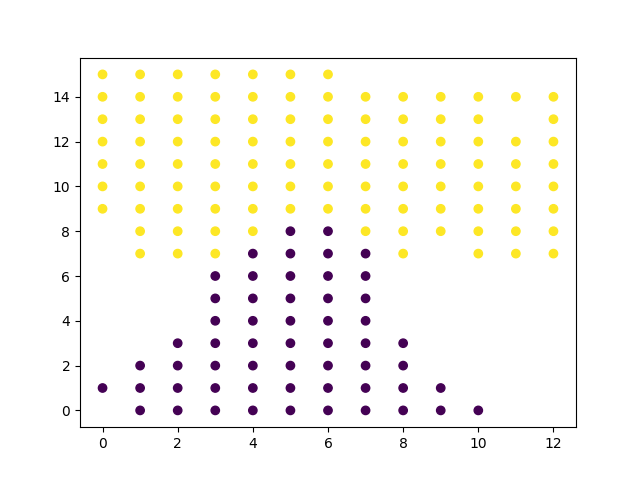
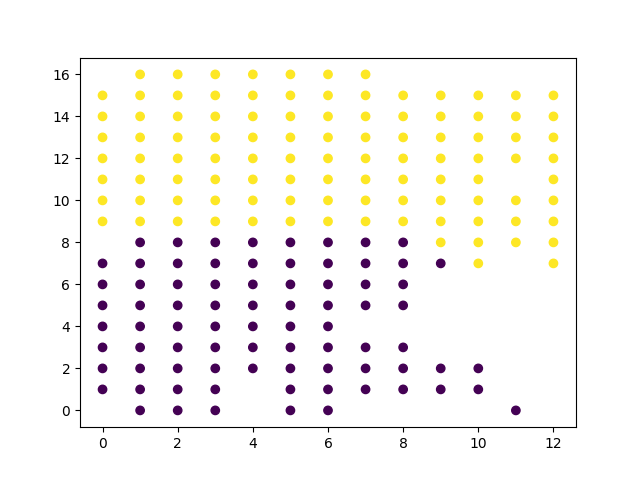
Predicted values flipped (lr & ud), resolving issue of error increasing with num. samples

diff --git a/mesa_spatial_sampling_MRS/model.py b/mesa_spatial_sampling_MRS/model.py
@@ -6,6 +6,7 @@ import random
 import re
 import copy
 import pickle
+import math
 
 import pandas as pd
 from mesa import Model, Agent
@@ -15,7 +16,7 @@ from mesa.datacollection import DataCollector
 import numpy as np
 import matplotlib.pyplot as plt
 from astar_python import Astar
-from gaussian import makeGaussian
+# from gaussian import makeGaussian
 from kriging_utils.kriging import predict_by_kriging
 from scipy.cluster.hierarchy import fclusterdata
 
@@ -161,7 +162,12 @@ class Robot(Agent):
                     # Run prediction
                     m, v = predict_by_kriging(xgrid, ygrid, x_arr, y_arr, o_arr, variogram=variogram)
 
-                    self.model.RMSE = np.mean(np.power(np.array(self.model.gaussian) - m, 2))
+                    m = np.flipud(m)
+                    m = np.fliplr(m)
+                    #
+                    # v = np.flipud(v)
+                    # v = np.fliplr(v)
+                    self.model.RMSE = np.sqrt(np.mean(np.power(np.array(self.model.gaussian) - m, 2)))
                     self.model.avg_variance = np.mean(v)
                     # print("RMSE:", self.model.RMSE)
 
@@ -189,12 +195,20 @@ class Robot(Agent):
                         unsampled_cells = np.where(np.array(self.model.sampled) == -1)
                         unsampled_cells = np.array(list(zip(unsampled_cells[1], unsampled_cells[0])))
 
+                        # unsampled_clusters = fclusterdata(unsampled_cells,
+                        #                                   t=self.model.width / (len(self.model.robots) / 3),
+                        #                                   criterion='distance',
+                        #                                   metric='euclidean',
+                        #                                   depth=1,
+                        #                                   method='complete')
+
                         unsampled_clusters = fclusterdata(unsampled_cells,
-                                                          t=self.model.width / (len(self.model.robots) / 3),
+                                                          t=math.sqrt(self.model.width*self.model.height),
                                                           criterion='distance',
                                                           metric='euclidean',
                                                           depth=1,
                                                           method='complete')
+
                         # print(unsampled_clusters)
                         plt.scatter(unsampled_cells[:, 0], unsampled_cells[:, 1], c=unsampled_clusters)
                         plt.savefig(self.model.visualisation_dir+"unsampled_cell_clusters.png")
@@ -213,6 +227,8 @@ class Robot(Agent):
                         # where x is the number of robots
                         self.model.candidate_goals = []
                         # cluster_max_vs = []
+                        print("Number of clusters:", len(v_clustered))
+
                         for cluster in v_clustered:
                             cluster_max_v_cell_str = max(cluster, key=cluster.get)
                             cluster_max_v_cell_str = [re.sub("[^0-9]", "", word) for
@@ -220,7 +236,7 @@ class Robot(Agent):
                             for word in cluster_max_v_cell_str:
                                 if not word.isdigit():
                                     cluster_max_v_cell_str.remove(word)
-                            cluster_max_v_cell = [int(word) for word in cluster_max_v_cell_str]
+
                             cluster_max_v_cell = [int(word) for word in cluster_max_v_cell_str]
                             cluster_max_v_cell = [cluster_max_v_cell[1], cluster_max_v_cell[0]]
                             if self.model.verbose:
@@ -424,7 +440,7 @@ class SampledCell(Agent):
         self.pos = pos
         self.value = value
         # Normalise value to 0-1 range for grayscale representation of value
-        print(type(self.model))
+        # print(type(self.model))
         self.color = "#%02x%02x%02x" % (int(value * 255), int(value * 255), int(value * 255))
         if isinstance(self.model, SpatialSamplingModel):
             val_normalised = self.value / self.model.max_sample_value
@@ -441,7 +457,7 @@ class UnsampledCell(SampledCell):
 
 
 class SpatialSamplingModel(Model):
-    def __init__(self, height=20, width=20, num_robots=2, task_allocation="SSI", trial_num=1,
+    def __init__(self, height=20, width=20, num_robots=2, task_allocation="SSI", trial_num=2,
                  sampling_strategy="dynamic",
                  results_dir="./results/3robs_20x20_grid_sampling_all_cells/",
                  verbose=True):
